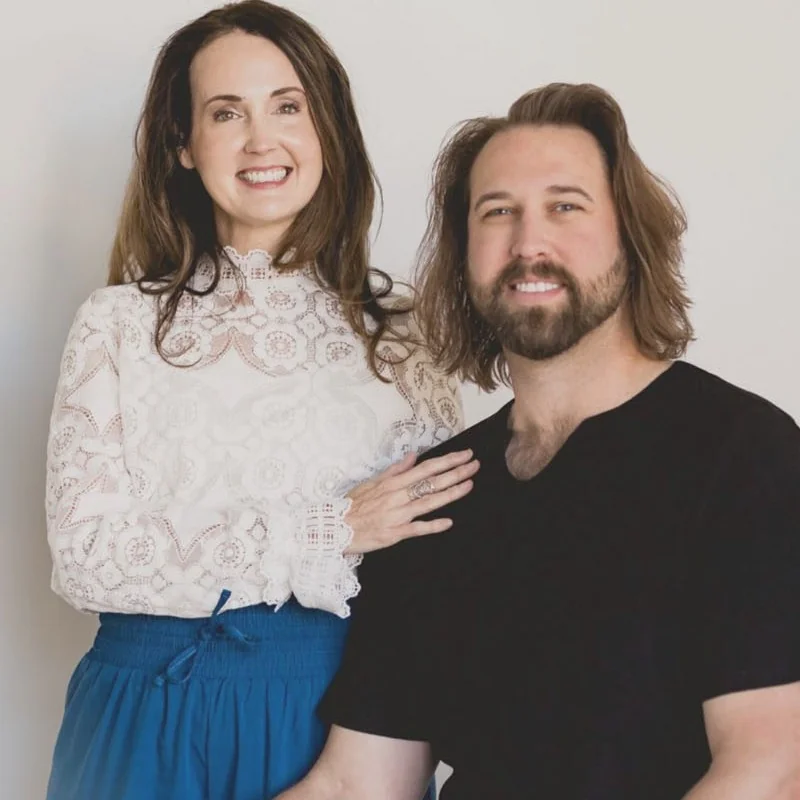
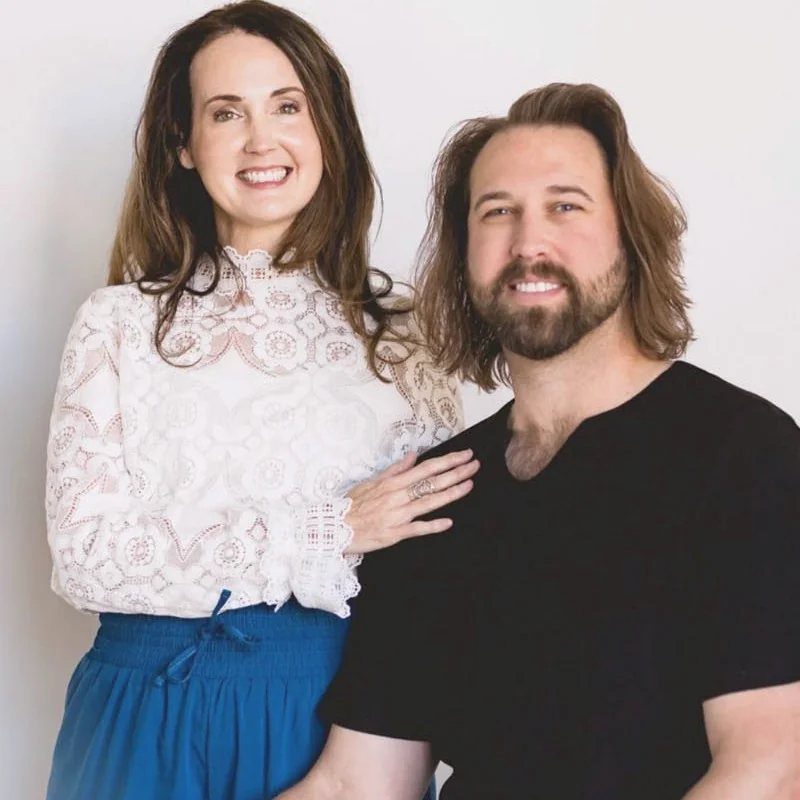
Suivera updates: agenda copy + speaker bio + photo brightness
Three small refinements per Anthony's feedback:

1. Sunday agenda — afternoon entry:
   "Love-Centered Meditation Experience" -> "Guided Meditation"
   Description rewritten from "lead a love-centered meditation to
   soften and open the heart" -> "lead a love-centered meditation
   to integrate the weekend and bring us into deeper connection."
   Dropped the parenthetical "(Suivera)" since the brand name
   isn't broadly recognized and adds friction. The "Closing
   Ceremony" entry below (Dr. Balduzzi) stays unchanged.

2. Speaker card bio — replaced the "they lead the closing
   ceremony" framing with "they lead a love-centered guided
   meditation to integrate the weekend." More accurate (Anthony
   leads the closing ceremony; Suivera leads the afternoon
   meditation that flows into it) and consistent with the agenda
   wording.

3. Photo brightness — subtle adjustment to match the brightness
   level of the Caroline Alan and Makenzie Marzluff cards
   (Anthony noted the original read cream/beige next to those
   true-white headshots):
     - +8% brightness (Pillow ImageEnhance.Brightness 1.08)
     - +5% contrast (1.05)
     - +3% blue channel — counteracts the warm cream cast
   Wall and Amber's lace top now read true-white. Skin tones
   stay natural. No dramatic re-tone, just a calibration nudge.

diff --git a/index.html b/index.html
@@ -3561,7 +3561,7 @@ wistia-player[media-id='mikhgbxilc']:not(:defined) {
         <div class="spk-title">Founders of Suivera</div>
         <div class="spk-hook">Anchor the breakthroughs of three days into your body and your life before you fly home.</div>
         <div class="spk-toggle">Read bio +</div>
-        <div class="spk-bio">Amber and Austin are the founders of Suivera — a heart-centered, all-beliefs nonprofit movement with over 1.3 million members across 113 countries. Amber is the author of <em>Silence Your Inner Critic</em> and the architect of Suivera's heart-centered transformation work. Austin hosts <em>The Heart Leader</em> podcast. On Sunday afternoon at Breakthrough, they lead the closing ceremony — a heart-centered meditation designed to integrate everything you've experienced over the weekend into something you can carry home.</div>
+        <div class="spk-bio">Amber and Austin are the founders of Suivera — a heart-centered, all-beliefs nonprofit movement with over 1.3 million members across 113 countries. Amber is the author of <em>Silence Your Inner Critic</em> and the architect of Suivera's heart-centered transformation work. Austin hosts <em>The Heart Leader</em> podcast. On Sunday afternoon at Breakthrough, they lead a love-centered guided meditation to integrate the weekend and bring us into deeper connection before we head home.</div>
       </div>
       <div class="spk-card">
         <img src="speakers/flaherty.webp" alt="Jim Flaherty" loading="lazy" />
@@ -3725,7 +3725,7 @@ wistia-player[media-id='mikhgbxilc']:not(:defined) {
           <div class="ps-item"><span class="ps-time">Morning</span><div class="ps-meat"><div class="ps-title">Cacao Ceremony</div><div class="ps-who">Makenzie Marzluff opens the heart for the integration work ahead.</div></div></div>
           <div class="ps-item"><span class="ps-time">Late Morning</span><div class="ps-meat"><div class="ps-title">90-Day Plan Workshop</div><div class="ps-who">Dr. Balduzzi walks you through distilling the weekend into your 90-day plan.</div></div></div>
           <div class="ps-item"><span class="ps-time">Lunch</span><div class="ps-meat"><div class="ps-title">Final Connection Lunch</div><div class="ps-who">With the people who are now your community.</div></div></div>
-          <div class="ps-item"><span class="ps-time">Afternoon</span><div class="ps-meat"><div class="ps-title">Love-Centered Meditation Experience</div><div class="ps-who">Amber Mikesell and Austin Uhl (Suivera) lead a love-centered meditation to soften and open the heart.</div></div></div>
+          <div class="ps-item"><span class="ps-time">Afternoon</span><div class="ps-meat"><div class="ps-title">Guided Meditation</div><div class="ps-who">Amber Mikesell and Austin Uhl lead a love-centered meditation to integrate the weekend and bring us into deeper connection.</div></div></div>
           <div class="ps-item"><span class="ps-time">Closing</span><div class="ps-meat"><div class="ps-title">Closing Ceremony</div><div class="ps-who">Dr. Balduzzi closes the weekend and sends you off into the next chapter of your life.</div></div></div>
         </div>
       </div>